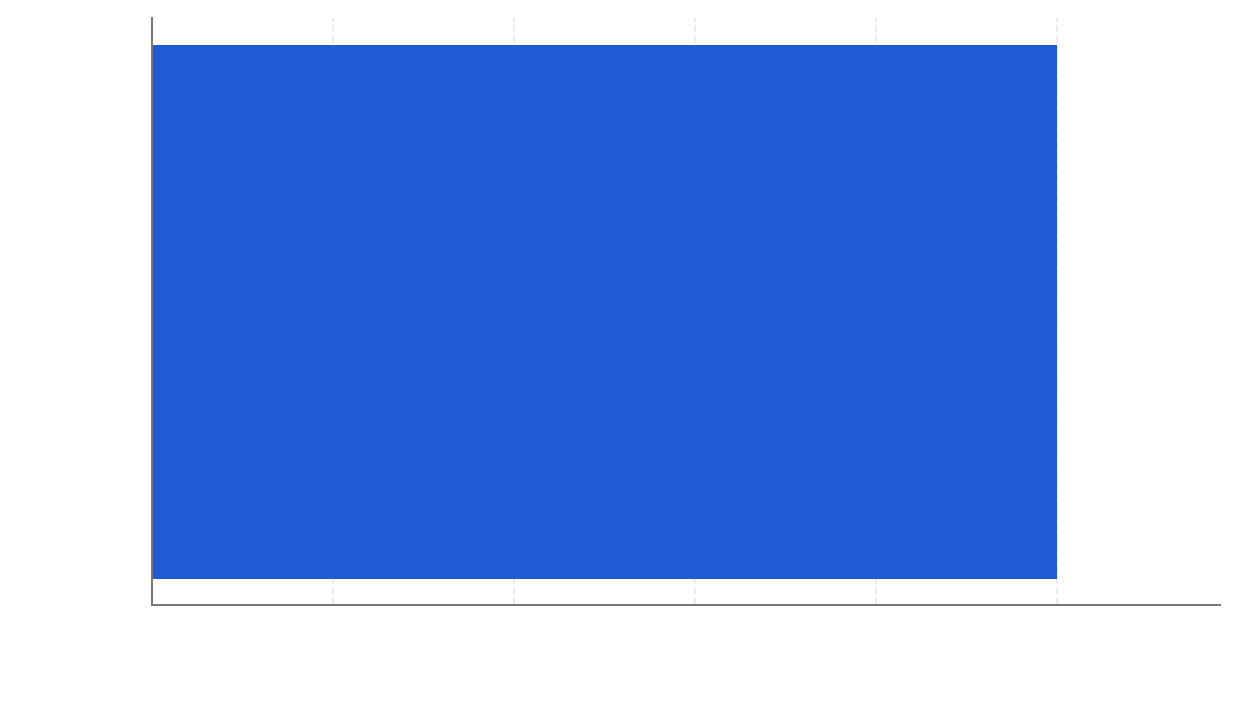
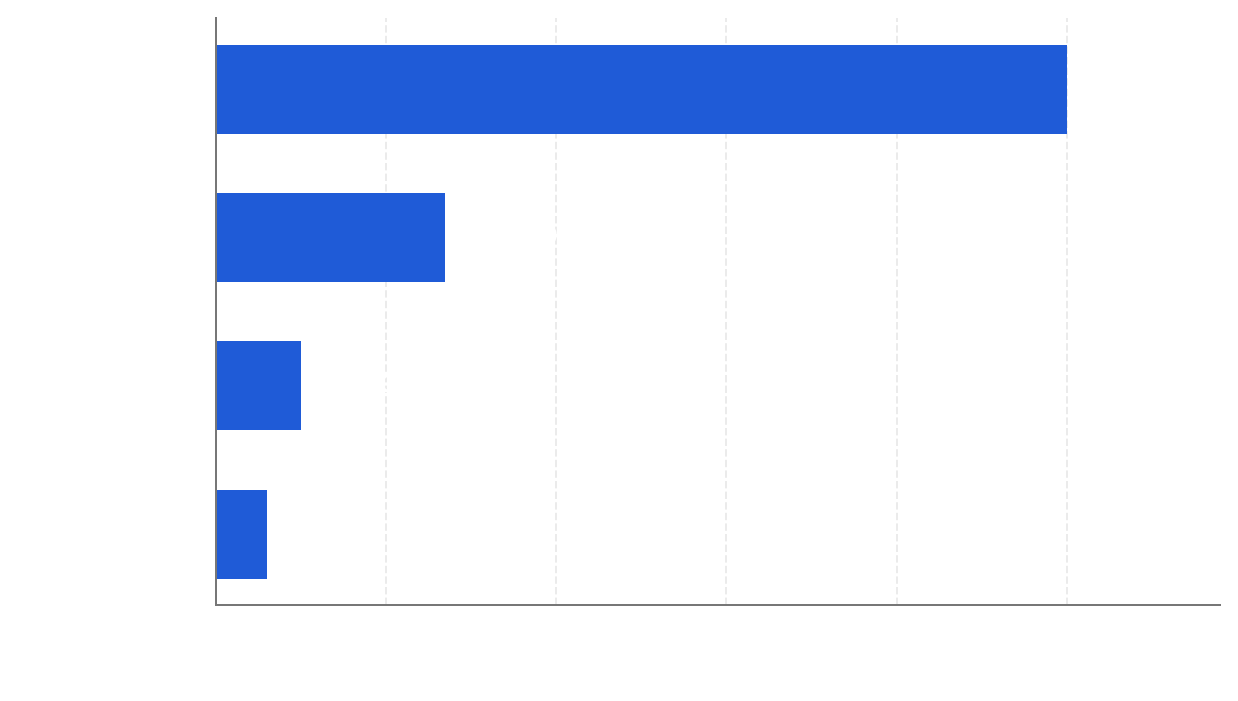
Complete dark theme persistence and settings styling

diff --git a/screens/splash.py b/screens/splash.py
@@ -8,7 +8,7 @@ class SplashScreen(Screen):
         """
         Called automatically when this screen becomes visible.
         """
-        Clock.schedule_once(self.go_to_welcome, 2)
+        Clock.schedule_once(self.go_to_welcome, 4)
 
     def go_to_welcome(self, dt):
         """
